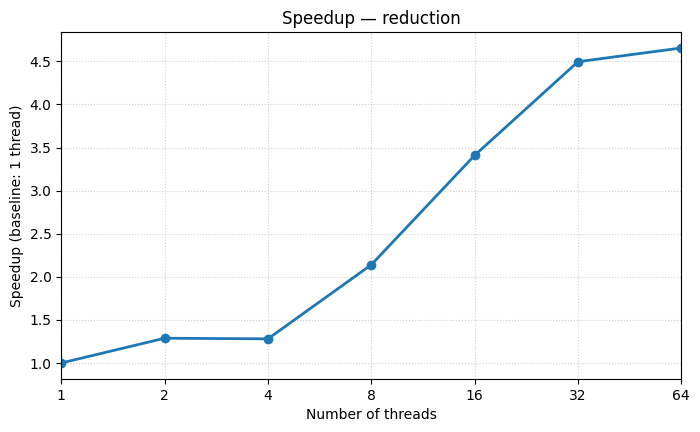
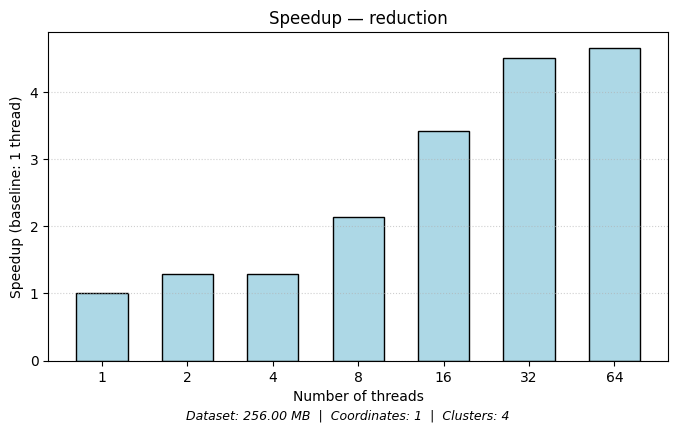
Change to bar plots and add descriptions

diff --git a/lab2/kmeans/diagram_generator/plot_all_results.py b/lab2/kmeans/diagram_generator/plot_all_results.py
@@ -19,28 +19,6 @@ def find_result_files(results_root: str) -> List[str]:
         files.extend(glob.glob(p, recursive=True))
     files = sorted(files)
     return files
-import os
-import glob
-import sys
-from collections import defaultdict, OrderedDict
-from typing import List
-
-HERE = os.path.dirname(__file__)
-sys.path.insert(0, HERE)
-
-from diagram_gen import parse_results
-from matplotlib.ticker import FuncFormatter
-
-import matplotlib.pyplot as plt
-
-
-def find_result_files(results_root: str) -> List[str]:
-    patterns = [os.path.join(results_root, "**", "run_*.out"), os.path.join(results_root, "**", "run_*.err")]
-    files = []
-    for p in patterns:
-        files.extend(glob.glob(p, recursive=True))
-    files = sorted(files)
-    return files
 
 
 def label_for_path(filepath: str, results_root: str) -> str:
@@ -57,6 +35,7 @@ def label_for_path(filepath: str, results_root: str) -> str:
 def aggregate_runs(files: List[str], results_root: str):
     data = defaultdict(dict)
     raw_entries = defaultdict(list)
+    metadata = {}  # Store dataset metadata per label
     for f in files:
         try:
             entries = parse_results(f)
@@ -76,16 +55,21 @@ def aggregate_runs(files: List[str], results_root: str):
             else:
                 data[label][t] = time
             raw_entries[label].append((t, time))
-    return data, raw_entries
+            # Store metadata (same for all runs of the same label)
+            if label not in metadata:
+                metadata[label] = {
+                    'dataset_size_MB': e.get('dataset_size_MB'),
+                    'numCoords': e.get('numCoords'),
+                    'numClusters': e.get('numClusters'),
+                    'numObjs': e.get('numObjs')
+                }
+    return data, raw_entries, metadata
 
 
-def plot_per_implementation(data, out_dir: str):
+def plot_per_implementation(data, out_dir: str, metadata: dict):
     os.makedirs(out_dir, exist_ok=True)
     created = []
     canonical = [1, 2, 4, 8, 16, 32, 64]
-
-    def int_formatter(x, pos):
-        return str(int(round(x))) if abs(x - round(x)) < 1e-6 else str(x)
 
     for label, thread_map in data.items():
         if not thread_map:
@@ -108,34 +92,48 @@ def plot_per_implementation(data, out_dir: str):
 
         safe_label = label.replace("/", "_").replace(" ", "_")
 
-        # Execution time
+        # Create x positions with equal spacing
+        x_positions = list(range(len(threads)))
+        x_labels = [str(t) for t in threads]
+
+        # Get metadata for this label
+        meta = metadata.get(label, {})
+        config_text = ""
+        if meta.get('dataset_size_MB') is not None:
+            config_text = f"Dataset: {meta['dataset_size_MB']:.2f} MB"
+        if meta.get('numCoords') is not None:
+            config_text += f"  |  Coordinates: {meta['numCoords']}"
+        if meta.get('numClusters') is not None:
+            config_text += f"  |  Clusters: {meta['numClusters']}"
+
+        # Execution time bar plot
         plt.figure(figsize=(8, 4.5))
-        plt.plot(threads, times, marker="o", linewidth=2)
+        plt.bar(x_positions, times, color='red', edgecolor='black', width=0.6)
         plt.xlabel("Number of threads")
         plt.ylabel("Per-loop time (s)")
         plt.title(f"Execution time — {label}")
-        plt.grid(True, linestyle=':', alpha=0.6)
-        plt.xscale('log', base=2)
-        plt.xticks(canonical)
-        plt.xlim(1, 64)
-        ax = plt.gca()
-        ax.xaxis.set_major_formatter(FuncFormatter(int_formatter))
+        plt.grid(axis='y', linestyle=':', alpha=0.6)
+        plt.xticks(x_positions, x_labels)
+        # Add configuration text below the plot
+        if config_text:
+            plt.subplots_adjust(bottom=0.15)
+            plt.figtext(0.5, 0.02, config_text, ha='center', fontsize=9, style='italic')
         time_file = os.path.join(out_dir, f"time_{safe_label}.png")
         plt.savefig(time_file, bbox_inches="tight")
         plt.close()
 
-        # Speedup
+        # Speedup bar plot
         plt.figure(figsize=(8, 4.5))
-        plt.plot(threads, speedups, marker="o", linewidth=2)
+        plt.bar(x_positions, speedups, color='lightblue', edgecolor='black', width=0.6)
         plt.xlabel("Number of threads")
         plt.ylabel(f"Speedup (baseline: {baseline_thread} thread)")
         plt.title(f"Speedup — {label}")
-        plt.grid(True, linestyle=':', alpha=0.6)
-        plt.xscale('log', base=2)
-        plt.xticks(canonical)
-        plt.xlim(1, 64)
-        ax = plt.gca()
-        ax.xaxis.set_major_formatter(FuncFormatter(int_formatter))
+        plt.grid(axis='y', linestyle=':', alpha=0.6)
+        plt.xticks(x_positions, x_labels)
+        # Add configuration text below the plot
+        if config_text:
+            plt.subplots_adjust(bottom=0.15)
+            plt.figtext(0.5, 0.02, config_text, ha='center', fontsize=9, style='italic')
         speed_file = os.path.join(out_dir, f"speedup_{safe_label}.png")
         plt.savefig(speed_file, bbox_inches="tight")
         plt.close()
@@ -144,58 +142,92 @@ def plot_per_implementation(data, out_dir: str):
     return created
 
 
-def plot_combined(data, out_dir: str):
+def plot_combined(data, out_dir: str, metadata: dict):
     os.makedirs(out_dir, exist_ok=True)
     canonical = [1, 2, 4, 8, 16, 32, 64]
+    x_positions = list(range(len(canonical)))
+    x_labels = [str(t) for t in canonical]
 
-    def int_formatter(x, pos):
-        return str(int(round(x))) if abs(x - round(x)) < 1e-6 else str(x)
+    # Get configuration text (assume all runs have same dataset config)
+    config_text = ""
+    if metadata:
+        first_meta = next(iter(metadata.values()))
+        if first_meta.get('dataset_size_MB') is not None:
+            config_text = f"Dataset: {first_meta['dataset_size_MB']:.2f} MB"
+        if first_meta.get('numCoords') is not None:
+            config_text += f"  |  Coordinates: {first_meta['numCoords']}"
+        if first_meta.get('numClusters') is not None:
+            config_text += f"  |  Clusters: {first_meta['numClusters']}"
 
+    # Combined execution time bar plot
     plt.figure(figsize=(12, 6))
-    for label, thread_map in data.items():
+    bar_width = 0.8 / len(data)  # Divide bar width by number of implementations
+    colors = plt.cm.tab10(range(len(data)))  # Get distinct colors
+    
+    for idx, (label, thread_map) in enumerate(data.items()):
         if not thread_map:
             continue
         ordered = OrderedDict(sorted(thread_map.items()))
-        threads = [t for t in canonical if t in ordered]
-        times = [ordered[t] for t in threads]
-        plt.plot(threads, times, marker="o", linewidth=1.5, markersize=6, label=label)
+        # Get times for canonical thread counts that exist in the data
+        times = []
+        x_pos = []
+        for i, t in enumerate(canonical):
+            if t in ordered:
+                times.append(ordered[t])
+                x_pos.append(i + idx * bar_width)
+        
+        plt.bar(x_pos, times, width=bar_width, label=label, 
+                edgecolor='black', linewidth=0.5, color=colors[idx])
+    
     plt.xlabel("Number of threads")
     plt.ylabel("Per-loop time (s)")
     plt.title("Execution time — all implementations")
-    plt.grid(True, linestyle=':', alpha=0.6)
-    plt.xscale('log', base=2)
-    plt.xticks(canonical)
-    plt.xlim(1, 64)
-    ax = plt.gca()
-    ax.xaxis.set_major_formatter(FuncFormatter(int_formatter))
+    plt.grid(axis='y', linestyle=':', alpha=0.6)
+    plt.xticks([i + bar_width * (len(data) - 1) / 2 for i in x_positions], x_labels)
     plt.legend(bbox_to_anchor=(1.02, 1), loc='upper left', borderaxespad=0)
+    # Add configuration text below the plot
+    if config_text:
+        plt.subplots_adjust(bottom=0.12)
+        plt.figtext(0.45, 0.02, config_text, ha='center', fontsize=9, style='italic')
     combined_time = os.path.join(out_dir, "combined_time.png")
     plt.savefig(combined_time, bbox_inches="tight")
     plt.close()
 
+    # Combined speedup bar plot
     plt.figure(figsize=(12, 6))
-    for label, thread_map in data.items():
+    
+    for idx, (label, thread_map) in enumerate(data.items()):
         if not thread_map:
             continue
         ordered = OrderedDict(sorted(thread_map.items()))
-        threads = [t for t in canonical if t in ordered]
-        times = [ordered[t] for t in threads]
+        
+        # Get baseline
         if 1 in ordered:
             baseline = ordered[1]
         else:
-            baseline = times[0]
-        speedups = [baseline / t for t in times]
-        plt.plot(threads, speedups, marker="o", linewidth=1.5, markersize=6, label=label)
+            baseline = list(ordered.values())[0]
+        
+        # Get speedups for canonical thread counts that exist in the data
+        speedups = []
+        x_pos = []
+        for i, t in enumerate(canonical):
+            if t in ordered:
+                speedups.append(baseline / ordered[t])
+                x_pos.append(i + idx * bar_width)
+        
+        plt.bar(x_pos, speedups, width=bar_width, label=label,
+                edgecolor='black', linewidth=0.5, color=colors[idx])
+    
     plt.xlabel("Number of threads")
     plt.ylabel("Speedup")
     plt.title("Speedup — all implementations")
-    plt.grid(True, linestyle=':', alpha=0.6)
-    plt.xscale('log', base=2)
-    plt.xticks(canonical)
-    plt.xlim(1, 64)
-    ax = plt.gca()
-    ax.xaxis.set_major_formatter(FuncFormatter(int_formatter))
+    plt.grid(axis='y', linestyle=':', alpha=0.6)
+    plt.xticks([i + bar_width * (len(data) - 1) / 2 for i in x_positions], x_labels)
     plt.legend(bbox_to_anchor=(1.02, 1), loc='upper left', borderaxespad=0)
+    # Add configuration text below the plot
+    if config_text:
+        plt.subplots_adjust(bottom=0.12)
+        plt.figtext(0.45, 0.02, config_text, ha='center', fontsize=9, style='italic')
     combined_speed = os.path.join(out_dir, "combined_speedup.png")
     plt.savefig(combined_speed, bbox_inches="tight")
     plt.close()
@@ -210,10 +242,10 @@ def main():
         print("No result files found under", results_root)
         return
     print(f"Found {len(files)} result files")
-    data, _ = aggregate_runs(files, results_root)
+    data, _, metadata = aggregate_runs(files, results_root)
     out_dir = os.path.join(HERE, "..", "diagrams")
-    created = plot_per_implementation(data, out_dir)
-    created += plot_combined(data, out_dir)
+    created = plot_per_implementation(data, out_dir, metadata)
+    created += plot_combined(data, out_dir, metadata)
     print("Created plots:")
     for c in created:
         print(" -", c)
